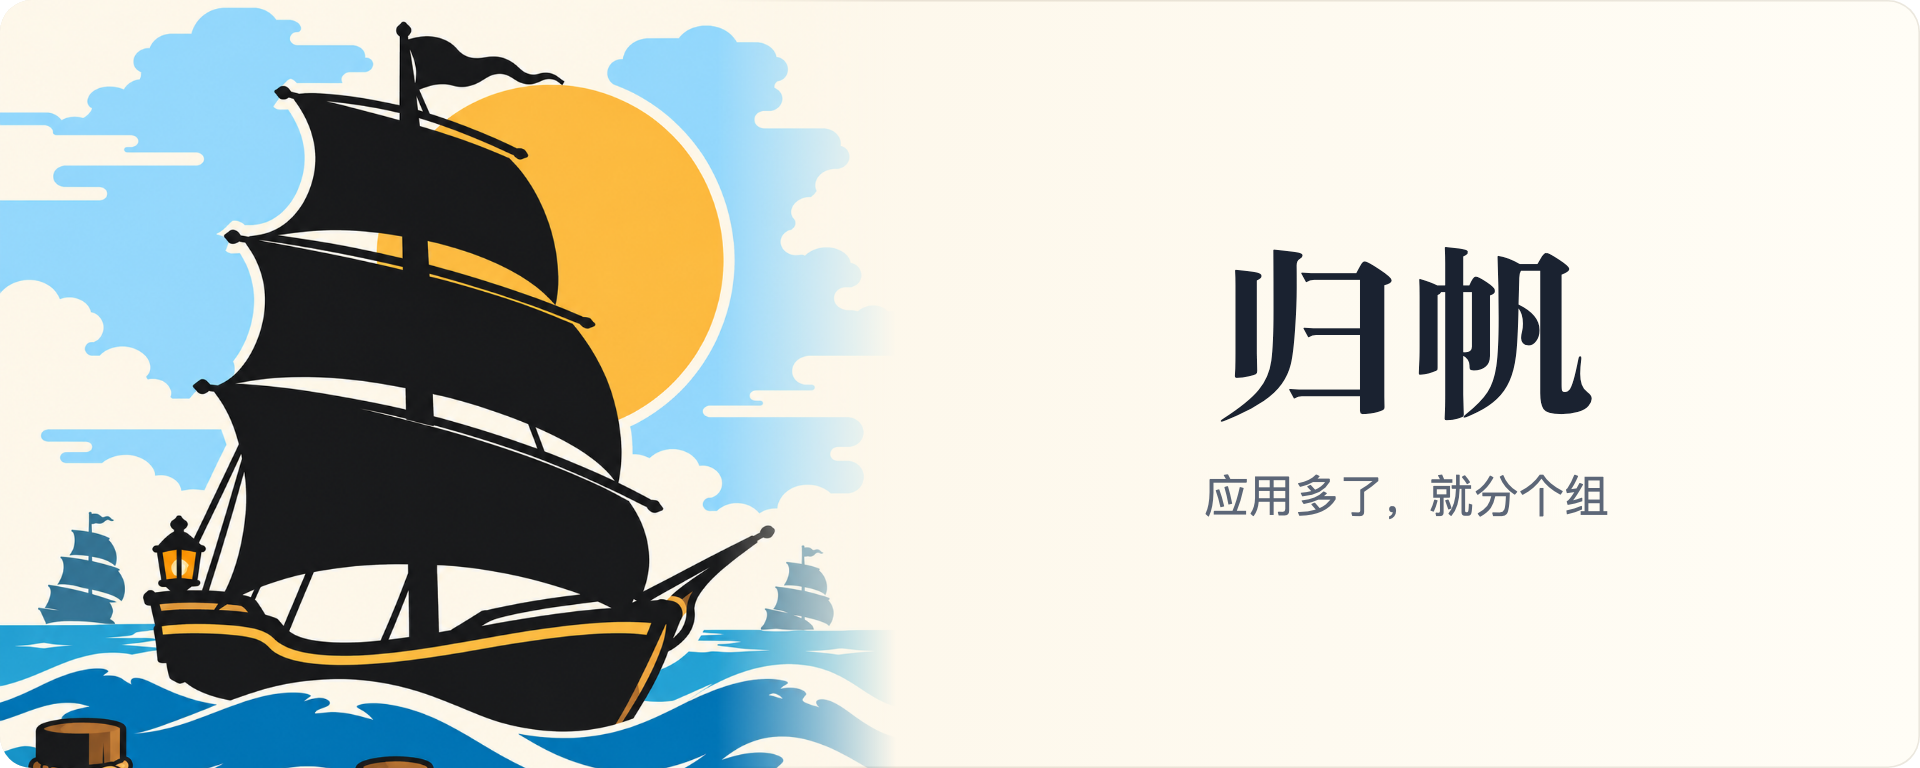
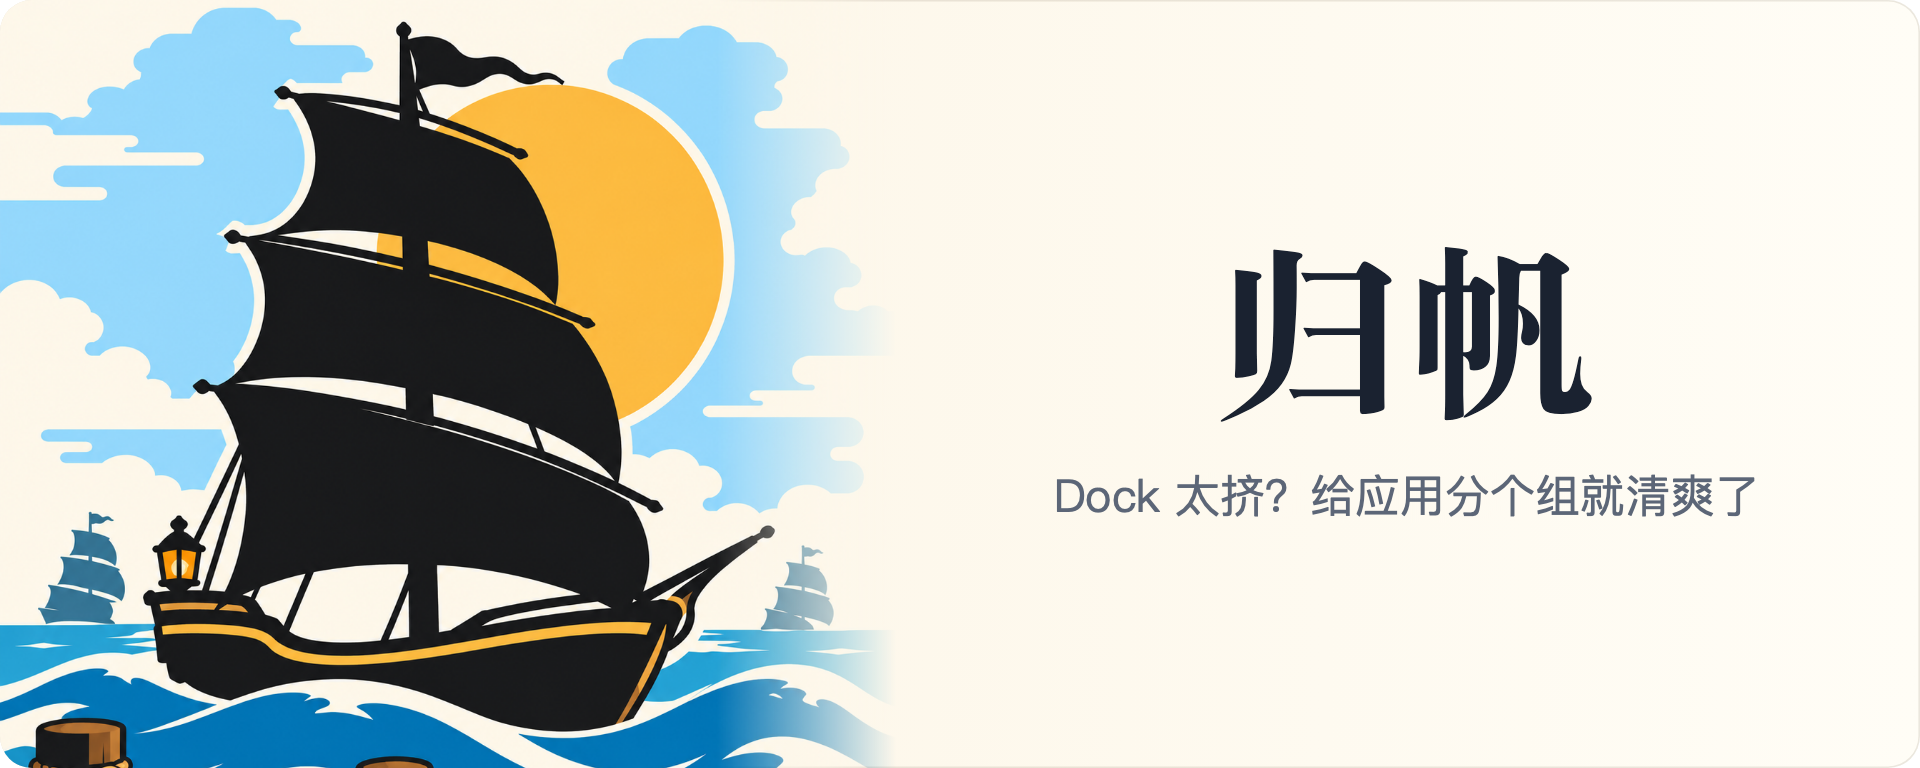
docs: 更新中文宣传标语与头图

Changed region(s): [[0.5312, 0.5938, 0.9062, 0.6875]]

diff --git a/website/zh/index.html b/website/zh/index.html
@@ -16,7 +16,7 @@
     document.documentElement.classList.add("js");
   </script>
 
-  <title>归帆 —— 应用多了，就分个组。</title>
+  <title>归帆 —— Dock 太挤？给应用分个组就清爽了。</title>
 
   <meta
     name="description"
@@ -75,7 +75,7 @@
 
   <meta
     property="og:title"
-    content="归帆 —— 应用多了，就分个组。"
+    content="归帆 —— Dock 太挤？给应用分个组就清爽了。"
   >
 
   <meta
@@ -859,7 +859,7 @@
           <h1
             class="hero-title"
             id="hero-title"
-          >应用多了，就分个组。</h1>
+          >Dock 太挤？给应用分个组<wbr>就清爽了。</h1>
 
           <p class="hero-lead">
             在 Dock 上给应用分组，文件、文件夹和网页也能放进去。
@@ -2289,7 +2289,7 @@
           <h2
             class="closing-title"
             id="closing-title"
-          >应用多了，就分个组。</h2>
+          >Dock 太挤？给应用分个组<wbr>就清爽了。</h2>
 
           <div class="closing-actions">
             <a
@@ -2370,7 +2370,7 @@
           <span>归帆</span>
         </a>
 
-        <p>应用多了，就分个组。</p>
+        <p>Dock 太挤？给应用分个组就清爽了。</p>
       </div>
 
       <nav

diff --git a/website/zh/download/index.html b/website/zh/download/index.html
@@ -1590,7 +1590,7 @@ open build/Flotilla.app</code></pre>
           <span>归帆</span>
         </a>
 
-        <p>应用多了，就分个组。</p>
+        <p>Dock 太挤？给应用分个组就清爽了。</p>
       </div>
 
       <nav

diff --git a/website/zh/releases/index.html b/website/zh/releases/index.html
@@ -1144,7 +1144,7 @@
           <span>归帆</span>
         </a>
 
-        <p>应用多了，就分个组。</p>
+        <p>Dock 太挤？给应用分个组就清爽了。</p>
       </div>
 
       <nav
